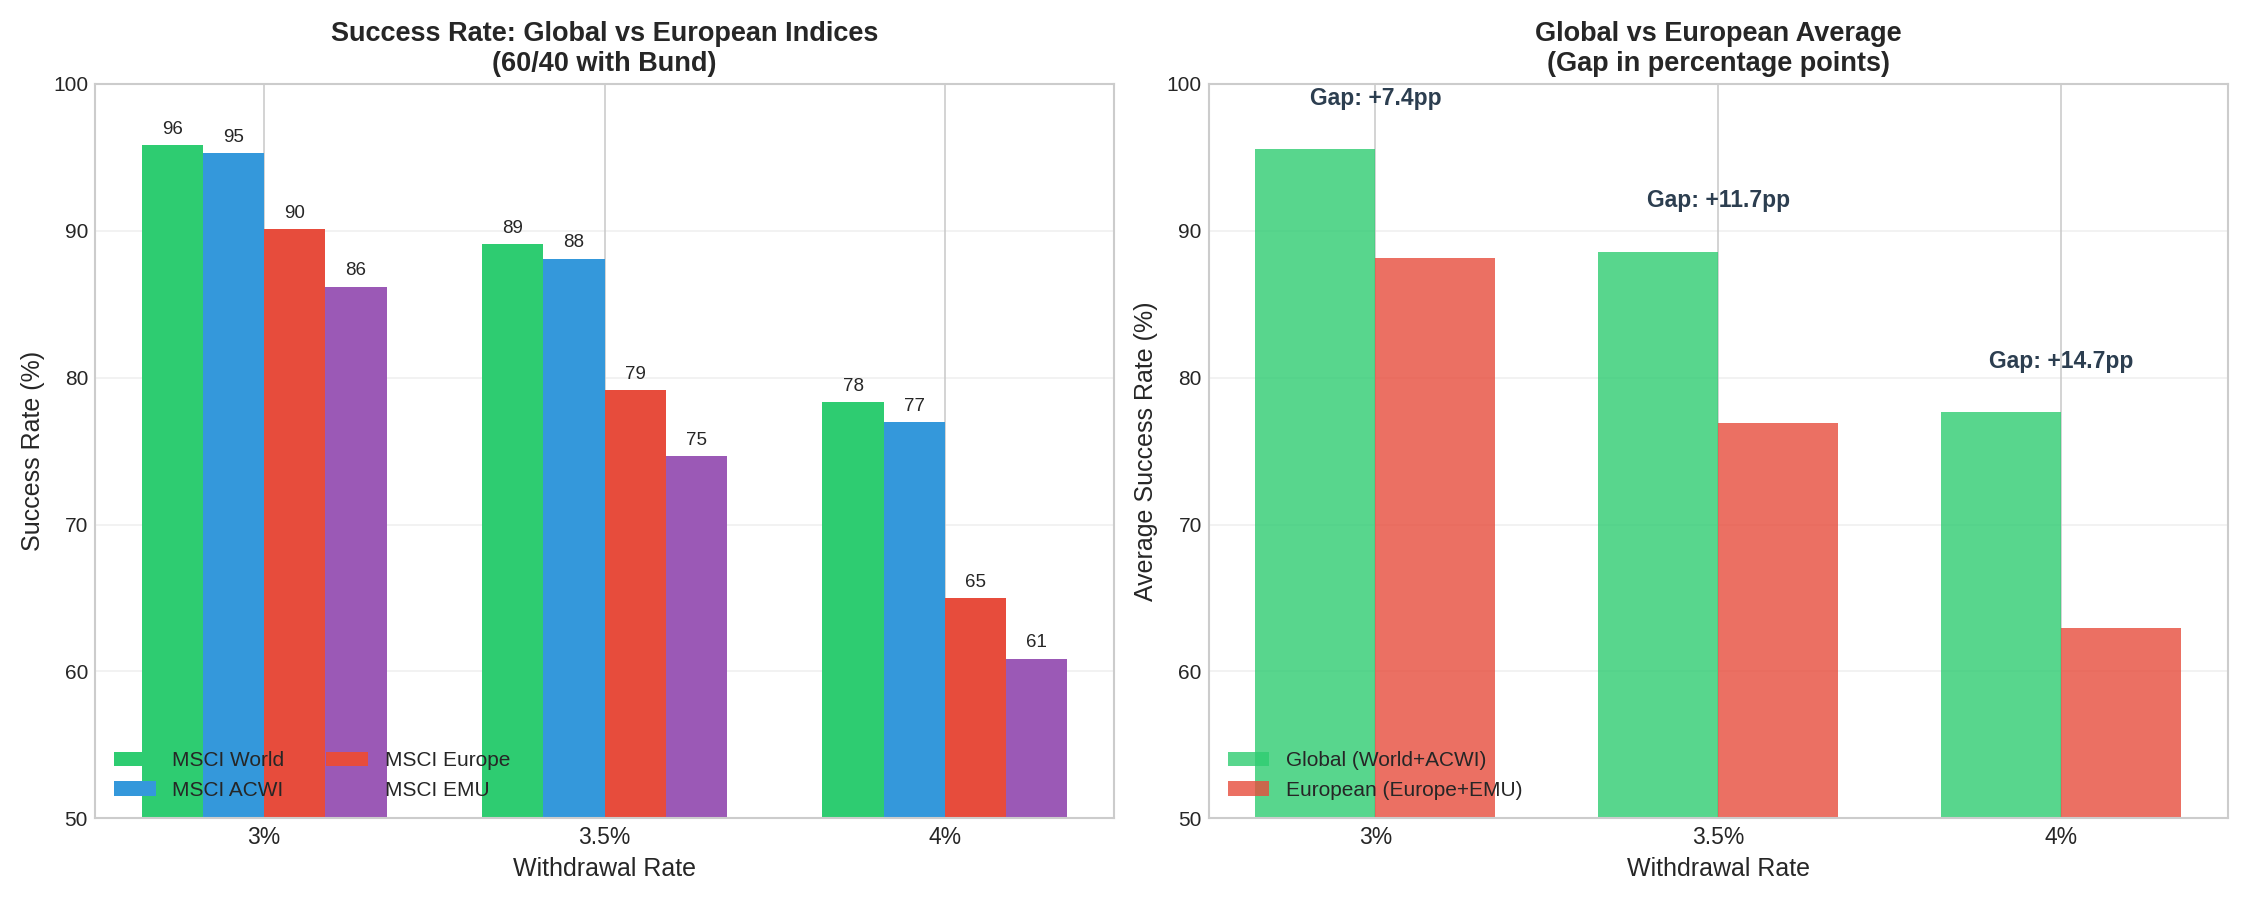
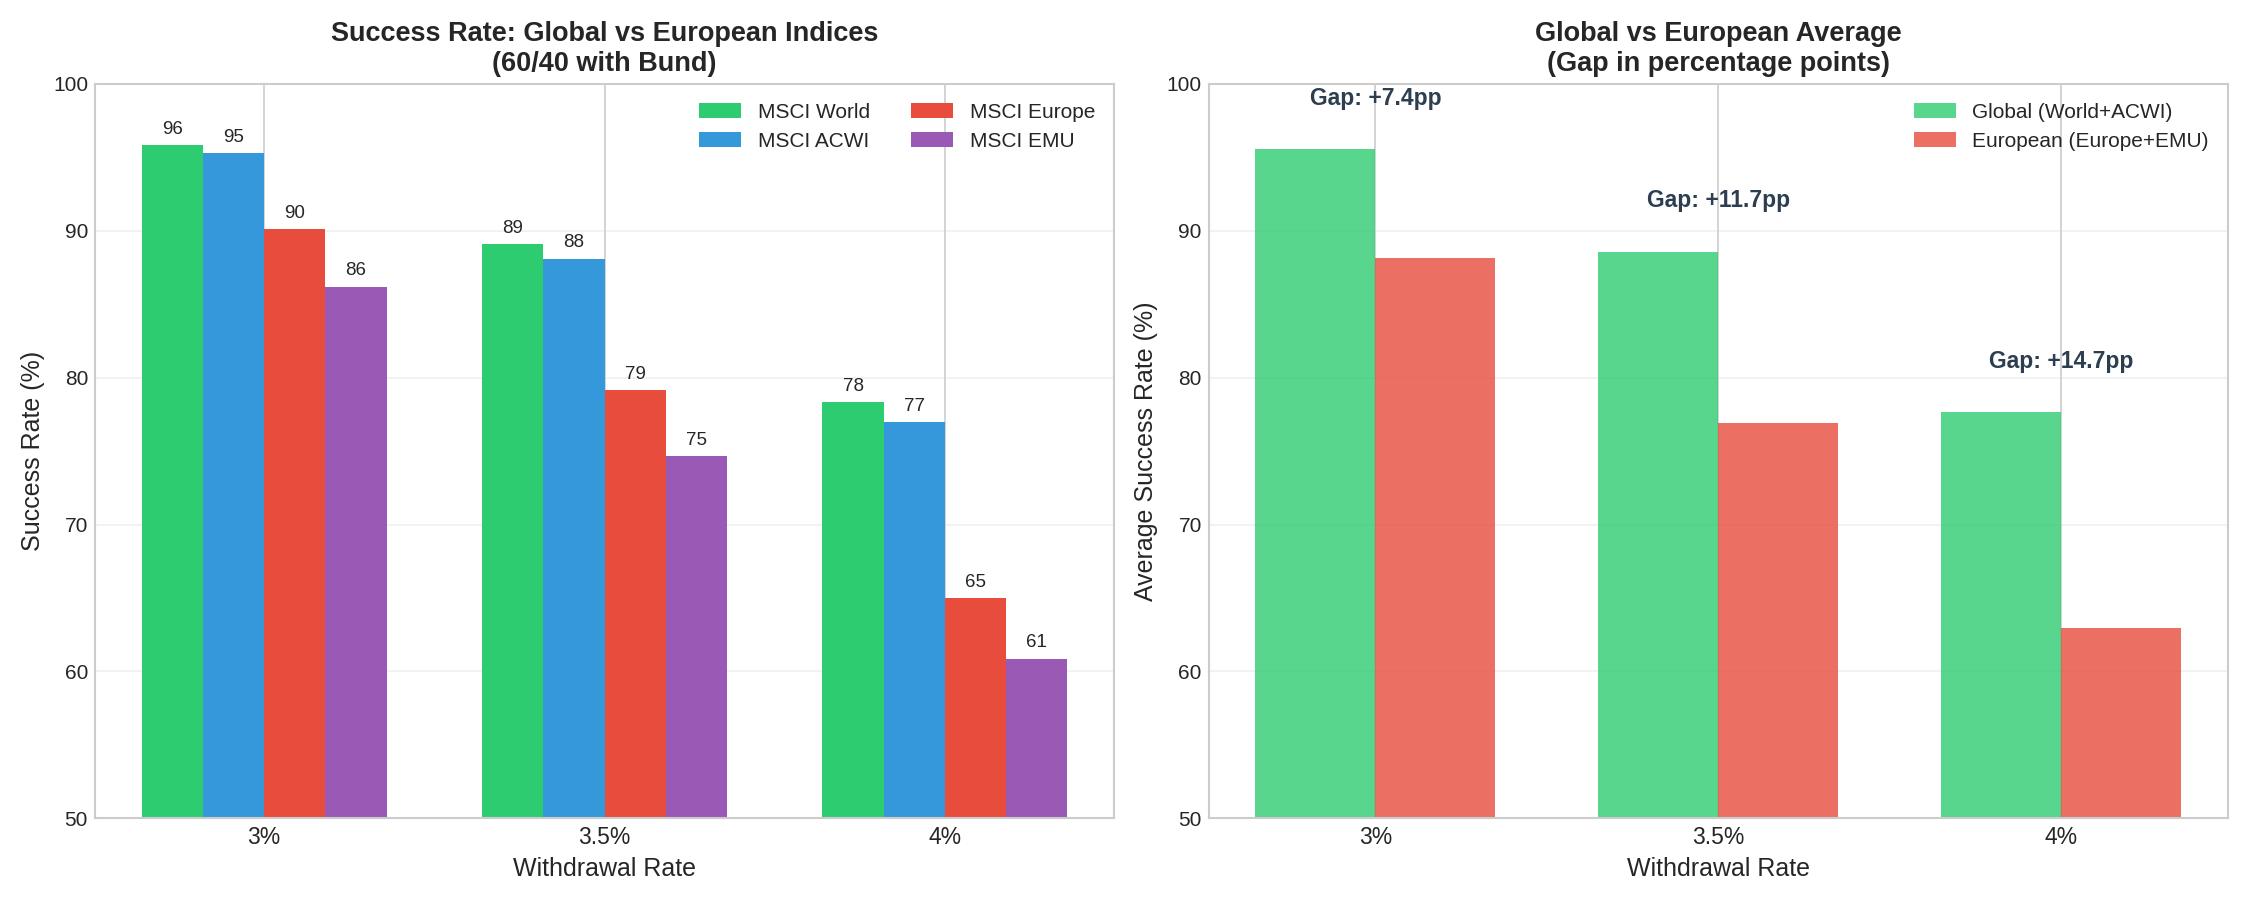
add plots for bond mix bund/btp (#39)
* move legend to top dx on 04 plot

* add plot 01b: success rate matrix for Bund+BTP mix (60/20/20)

* update plots README: add plot 01b entry and update count to 35

* add plot 32b: WR comparison summary for Bund+BTP mix (60/20/20)

diff --git a/src/tools/plots.py b/src/tools/plots.py
@@ -141,6 +141,68 @@ def plot_01_success_rate_summary_matrix(df: pd.DataFrame, output_dir: Path) -> N
 
 
 # =============================================================================
+# PLOT 01b: Summary Matrix - Bund+BTP Mix
+# =============================================================================
+
+def plot_01b_success_rate_summary_matrix_bundbtp(df: pd.DataFrame, output_dir: Path) -> None:
+    """
+    Plot 01b: Success Rate Summary Matrix (60/20/20 Bund+BTP portfolios).
+    Key decision matrix showing success rates for all indices × all WRs with mixed bonds.
+    """
+    fig, ax = plt.subplots(figsize=(10, 7))
+
+    # Filter to 60% equity with Bund+BTP allocation
+    mask = (df["Equity_Pct"] == 60) & (df["Bond"] == "Bund+BTP")
+    subset = df[mask].copy()
+
+    if subset.empty:
+        logger.warning("No data for Summary Matrix Bund+BTP plot")
+        plt.close()
+        return
+
+    # Pivot to create summary table
+    pivot = subset.pivot_table(
+        index="Equity",
+        columns="WR",
+        values="Success_Rate",
+        aggfunc="mean"
+    )
+
+    # Order indices and columns
+    pivot = pivot.reindex([i for i in INDEX_ORDER if i in pivot.index])
+    pivot = pivot.reindex(columns=sorted(pivot.columns))
+
+    # Create heatmap
+    sns.heatmap(
+        pivot,
+        annot=True,
+        fmt=".1f",
+        cmap="RdYlGn",
+        center=80,
+        vmin=55,
+        vmax=100,
+        ax=ax,
+        cbar_kws={"label": "Success Rate (%)"},
+        annot_kws={"size": 16, "weight": "bold"},
+        linewidths=3,
+        linecolor="white",
+    )
+
+    ax.set_xlabel("Withdrawal Rate (%)", fontsize=14)
+    ax.set_ylabel("Equity Index", fontsize=14)
+    ax.set_title("Success Rate Summary: 60/20/20 Portfolios with Bund+BTP\n"
+                 "Key Decision Matrix for European Investors",
+                 fontsize=16, fontweight="bold")
+    ax.set_xticklabels([f"{float(x.get_text()):g}%" for x in ax.get_xticklabels()], fontsize=13)
+    ax.set_yticklabels(ax.get_yticklabels(), fontsize=13, rotation=0)
+
+    plt.tight_layout()
+    plt.savefig(output_dir / "01b_success_rate_summary_matrix_bundbtp.png", dpi=150)
+    plt.close()
+    logger.info("Generated: 01b_success_rate_summary_matrix_bundbtp.png")
+
+
+# =============================================================================
 # PLOT 02: Success Rate vs Withdrawal Rate (All Indices)
 # =============================================================================
 
@@ -301,7 +363,7 @@ def plot_04_global_vs_european_comparison(df: pd.DataFrame, output_dir: Path) ->
     ax1.set_xticks(x)
     ax1.set_xticklabels([f"{wr:g}%" for wr in withdrawal_rates], fontsize=11)
     ax1.set_ylim(50, 100)
-    ax1.legend(loc="lower left", fontsize=10, ncol=2)
+    ax1.legend(loc="upper right", fontsize=10, ncol=2)
     ax1.grid(True, alpha=0.3, axis="y")
 
     # Right plot: Gap analysis (Global avg - European avg)
@@ -333,7 +395,7 @@ def plot_04_global_vs_european_comparison(df: pd.DataFrame, output_dir: Path) ->
     ax2.set_xticks(x2)
     ax2.set_xticklabels([f"{wr:g}%" for wr in withdrawal_rates], fontsize=11)
     ax2.set_ylim(50, 100)
-    ax2.legend(loc="lower left", fontsize=10)
+    ax2.legend(loc="upper right", fontsize=10)
     ax2.grid(True, alpha=0.3, axis="y")
 
     # Add gap annotations
@@ -2745,6 +2807,133 @@ def plot_32_wr_comparison_summary(df: pd.DataFrame, output_dir: Path) -> None:
 
 
 # =============================================================================
+# PLOT 32b: WR Comparison Summary - Bund+BTP Mix
+# =============================================================================
+
+def plot_32b_wr_comparison_summary_bundbtp(df: pd.DataFrame, output_dir: Path) -> None:
+    """
+    Plot 32b: Grand summary comparing all three withdrawal rates with Bund+BTP mix.
+    """
+    fig, axes = plt.subplots(2, 2, figsize=(16, 14))
+
+    # Filter to 60% equity with Bund+BTP
+    mask = (df["Equity_Pct"] == 60) & (df["Bond"] == "Bund+BTP")
+    subset = df[mask].copy()
+
+    if subset.empty:
+        logger.warning("No 60/20/20 Bund+BTP data available")
+        plt.close()
+        return
+
+    # Top Left: Success Rate by WR
+    ax1 = axes[0, 0]
+    avg_sr = subset.groupby("WR")["Success_Rate"].mean()
+
+    bars = ax1.bar([f"{wr:g}%" for wr in avg_sr.index], avg_sr.values,
+                   color=[WR_COLORS.get(wr, "gray") for wr in avg_sr.index], alpha=0.85)
+    ax1.set_xlabel("Withdrawal Rate", fontsize=12)
+    ax1.set_ylabel("Average Success Rate (%)", fontsize=12)
+    ax1.set_title("Average Success Rate by WR\n(60/20/20 with Bund+BTP, All Indices)",
+                  fontsize=13, fontweight="bold")
+    ax1.set_ylim(70, 100)
+
+    for bar, val in zip(bars, avg_sr.values):
+        ax1.text(bar.get_x() + bar.get_width()/2, bar.get_height() + 0.5,
+                 f"{val:.1f}%", ha="center", fontsize=14, fontweight="bold")
+    ax1.grid(True, alpha=0.3, axis="y")
+
+    # Top Right: Median Final Value by WR
+    ax2 = axes[0, 1]
+    avg_med = subset.groupby("WR")["Median_Final"].mean() / 1_000_000
+
+    bars = ax2.bar([f"{wr:g}%" for wr in avg_med.index], avg_med.values,
+                   color=[WR_COLORS.get(wr, "gray") for wr in avg_med.index], alpha=0.85)
+    ax2.set_xlabel("Withdrawal Rate", fontsize=12)
+    ax2.set_ylabel("Average Median Final Value (€ millions)", fontsize=12)
+    ax2.set_title("Average Median Final Value by WR\n(60/20/20 with Bund+BTP, All Indices)",
+                  fontsize=13, fontweight="bold")
+    ax2.axhline(y=1.0, color="gray", linestyle=":", alpha=0.5)
+
+    for bar, val in zip(bars, avg_med.values):
+        ax2.text(bar.get_x() + bar.get_width()/2, bar.get_height() + 0.03,
+                 f"€{val:.2f}M", ha="center", fontsize=12, fontweight="bold")
+    ax2.grid(True, alpha=0.3, axis="y")
+
+    # Bottom Left: Scatter - Success vs Final Value
+    ax3 = axes[1, 0]
+    for wr in sorted(subset["WR"].unique()):
+        wr_data = subset[subset["WR"] == wr]
+        for equity in INDEX_ORDER:
+            eq_data = wr_data[wr_data["Equity"] == equity]
+            if not eq_data.empty:
+                ax3.scatter(
+                    eq_data["Success_Rate"],
+                    eq_data["Median_Final"] / 1_000_000,
+                    c=WR_COLORS.get(wr, "gray"),
+                    marker=EQUITY_MARKERS.get(equity, "o"),
+                    s=150, alpha=0.75, edgecolors="white", linewidth=1.5
+                )
+
+    # Custom legend
+    wr_handles = [Line2D([0], [0], marker="o", color="w", markerfacecolor=c,
+                         markersize=12, label=f"{wr:g}% WR")
+                  for wr, c in sorted(WR_COLORS.items())]
+    legend1 = ax3.legend(handles=wr_handles, loc="upper left", fontsize=10,
+                         title="Withdrawal Rate")
+    ax3.add_artist(legend1)
+
+    ax3.set_xlabel("Success Rate (%)", fontsize=12)
+    ax3.set_ylabel("Median Final Value (€ millions)", fontsize=12)
+    ax3.set_title("Trade-off: Success Rate vs Final Value\n(60/20/20 with Bund+BTP)",
+                  fontsize=13, fontweight="bold")
+    ax3.grid(True, alpha=0.3)
+
+    # Bottom Right: Summary table
+    ax4 = axes[1, 1]
+    ax4.axis("off")
+
+    summary_text = "WITHDRAWAL RATE COMPARISON SUMMARY\n"
+    summary_text += "(60/20/20 Portfolio with Bund+BTP)\n"
+    summary_text += "=" * 55 + "\n\n"
+
+    summary_text += f"{'WR':<8} {'Success':<12} {'Median Value':<15} {'Recommendation':<20}\n"
+    summary_text += "-" * 55 + "\n"
+
+    recommendations = {
+        3.0: "Very Safe - Conservative",
+        3.5: "Balanced - Sweet Spot?",
+        4.0: "Traditional - Higher Risk"
+    }
+
+    for wr in sorted(subset["WR"].unique()):
+        wr_data = subset[subset["WR"] == wr]
+        sr = wr_data["Success_Rate"].mean()
+        med = wr_data["Median_Final"].mean() / 1_000_000
+        rec = recommendations.get(wr, "")
+        summary_text += f"{wr:g}%{'':<5} {sr:>5.1f}%{'':<6} €{med:>5.2f}M{'':<7} {rec}\n"
+
+    summary_text += "-" * 55 + "\n\n"
+    summary_text += "KEY INSIGHTS:\n"
+    summary_text += "• 3% offers highest safety but lower spending\n"
+    summary_text += "• 3.5% provides good balance for Europe\n"
+    summary_text += "• 4% (US standard) is riskier in Europe\n\n"
+    summary_text += "RECOMMENDATION FOR EUROPEAN INVESTORS:\n"
+    summary_text += "Consider 3-3.5% WR for better safety margins\n"
+    summary_text += "vs the traditional US-based 4% rule."
+
+    ax4.text(0.05, 0.95, summary_text, transform=ax4.transAxes,
+             fontsize=11, fontfamily="monospace", verticalalignment="top",
+             bbox=dict(boxstyle="round", facecolor="lightcyan", alpha=0.5))
+
+    fig.suptitle("Withdrawal Rate Comparison: 3% vs 3.5% vs 4% (Bund+BTP)",
+                 fontsize=16, fontweight="bold", y=0.98)
+    plt.tight_layout(rect=[0, 0, 1, 0.96])
+    plt.savefig(output_dir / "32b_wr_comparison_summary_bundbtp.png", dpi=150, bbox_inches="tight")
+    plt.close()
+    logger.info("Generated: 32b_wr_comparison_summary_bundbtp.png")
+
+
+# =============================================================================
 # PLOT 33: Optimal Bond Strategy
 # =============================================================================
 
@@ -3127,6 +3316,7 @@ def main():
     logger.info(f"Generating plots in {args.output_dir}/")
 
     plot_01_success_rate_summary_matrix(df, args.output_dir)
+    plot_01b_success_rate_summary_matrix_bundbtp(df, args.output_dir)
     plot_02_success_rate_by_wr_all_indices(df, args.output_dir)
     plot_03_success_rate_by_allocation_grid(df, args.output_dir)
     plot_04_global_vs_european_comparison(df, args.output_dir)
@@ -3166,6 +3356,7 @@ def main():
     plot_30_35pct_global_vs_european(df, args.output_dir)
     plot_31_35pct_risk_metrics(df, args.output_dir)
     plot_32_wr_comparison_summary(df, args.output_dir)
+    plot_32b_wr_comparison_summary_bundbtp(df, args.output_dir)
 
     # Optimal bond strategy plots
     plot_33_optimal_bond_strategy(df, args.output_dir)

diff --git a/plots/README.md b/plots/README.md
@@ -2,7 +2,7 @@
 
 Visualizations generated by `src/tools/plots.py` from `ANALYSIS_REGISTRY.csv` data.
 
-**Total plots:** 34
+**Total plots:** 36
 
 **Data period:** 2000-2025
 **Simulations:** 100,000 Monte Carlo with block bootstrap (6-month blocks)
@@ -30,6 +30,13 @@ Visualizations generated by `src/tools/plots.py` from `ANALYSIS_REGISTRY.csv` da
 ![01_success_rate_summary_matrix.png](01_success_rate_summary_matrix.png)
 
 Overview matrix of success rates across all indices and withdrawal rates with Bund bonds.
+
+---
+
+### 01b - Success Rate Summary Matrix (Bund+BTP)
+![01b_success_rate_summary_matrix_bundbtp.png](01b_success_rate_summary_matrix_bundbtp.png)
+
+Overview matrix of success rates across all indices and withdrawal rates with mixed Bund+BTP bonds (60/20/20 allocation).
 
 ---
 
@@ -260,9 +267,16 @@ P5, Median, P95 final values at 3.5% WR.
 ### 32 - WR Comparison Summary
 ![32_wr_comparison_summary.png](32_wr_comparison_summary.png)
 
-Grand summary comparing all three withdrawal rates (3%, 3.5%, 4%).
+Grand summary comparing all three withdrawal rates (3%, 3.5%, 4%) with Bund bonds.
 
 **Key insight:** Recommendation for European investors is 3-3.5% WR.
+
+---
+
+### 32b - WR Comparison Summary (Bund+BTP)
+![32b_wr_comparison_summary_bundbtp.png](32b_wr_comparison_summary_bundbtp.png)
+
+Grand summary comparing all three withdrawal rates (3%, 3.5%, 4%) with mixed Bund+BTP bonds (60/20/20 allocation).
 
 ---
 
